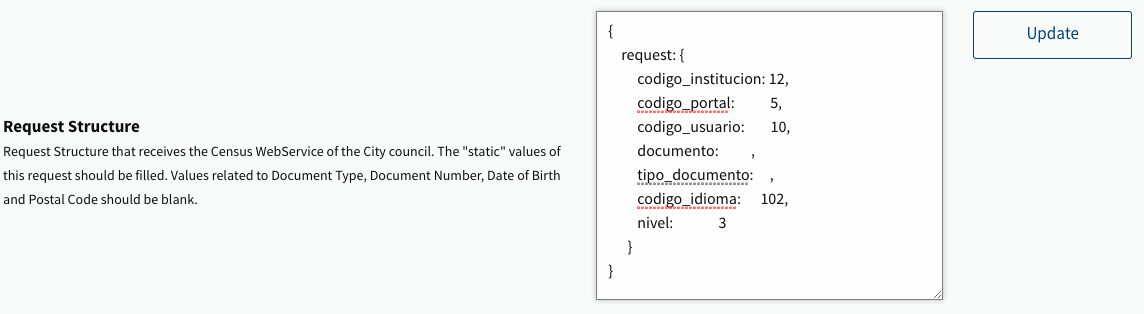
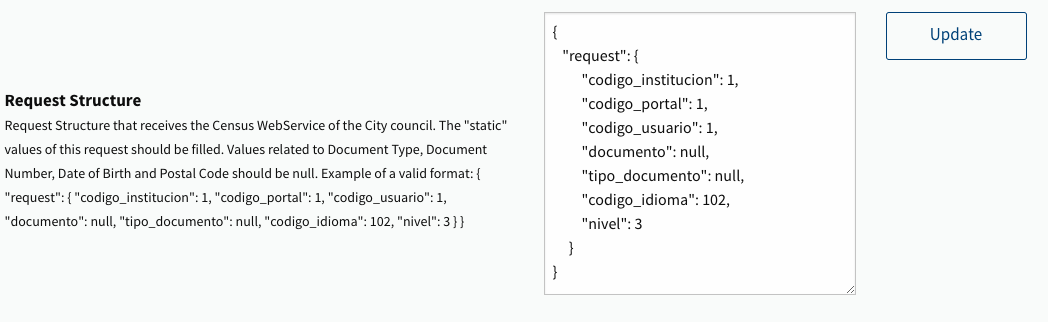
Update remote census doc
Add new images and examples for structure field from remote census.

diff --git a/es/features/census_configuration.md b/es/features/census_configuration.md
@@ -1,4 +1,4 @@
-##Configurar conexión con el Censo:
+## Configurar conexión con el Censo:
 
 Este servicio tiene como objetivo poder configurar la conexión con el Censo de Ayuntamiento a través del panel de Administración sin necesidad de modificar el código de la aplicación.
 
@@ -57,7 +57,7 @@ La información a rellenar esta dividida en tres apartados:
     Ejemplo:
     ![Request Data - Method name](../../img/remote_census/request-data-method-name-es.png)
 
-  - **Estructura de la petición**: Estructura de la petición que recibe el WebService del Censo del Ayuntamiento. Los valores "fijos" de esta petición deberán informarse. Los valores "dinámicos" relacionados con Tipo de Documento, Número de Documento, Fecha de Nacimiento y Código Postal deberán dejarse en blanco.
+  - **Estructura de la petición**: Estructura de la petición que recibe el WebService del Censo del Ayuntamiento. Los valores "fijos" de esta petición deberán informarse. Los valores "dinámicos" relacionados con Tipo de Documento, Número de Documento, Fecha de Nacimiento y Código Postal deberán dejarse con valor null.
 
     Ejemplo:
     ![Request Data - Structure](../../img/remote_census/request-data-structure-es.png)

diff --git a/en/features/census_configuration.md b/en/features/census_configuration.md
@@ -1,4 +1,4 @@
-##Configure connection to the Census:
+## Configure connection to the Census:
 
 The objective of this service is to be able to configure the connection with the Town Hall Census through the Administration panel without having to modify the application code.
 
@@ -56,7 +56,7 @@ The information to be filled in is divided into three sections:
     Example:
     ![Request Data - Method name](../../img/remote_census/request-data-method-name-en.png)
 
-  - **Request Structure**: Structure of the request received by the WebService of the Census of the City Council. The "static" values of this request should be reported. The "dynamic" values related to Document Type, Document Number, Date of Birth and Postal Code should be filled with blank value.
+  - **Request Structure**: Structure of the request received by the WebService of the Census of the City Council. The "static" values of this request should be reported. The "dynamic" values related to Document Type, Document Number, Date of Birth and Postal Code should be filled with null value.
 
     Example:
     ![Request Data - Structure](../../img/remote_census/request-data-structure-en.png)
